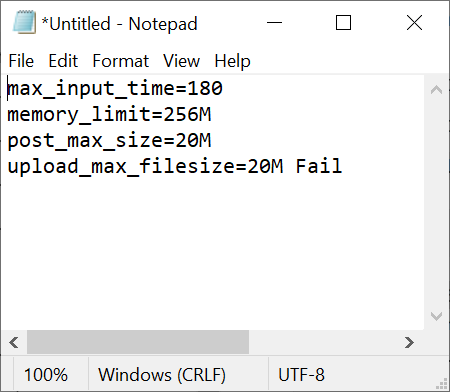
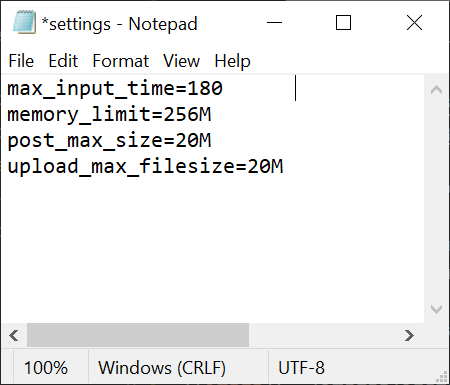
updated espocrm

diff --git a/installation/espocrm.md b/installation/espocrm.md
@@ -26,9 +26,9 @@ An **Azure App Service Plan** is required for this installation. The App Service
 
 ![image](../images/installation/espocrm-install.png)
 
-- In the installation page, select the Azure Resource Group and the Azure App Service Plan to install the web app. The App Service Plan must be higher than the Free and Shared tiers.
+- In the installation page, select the Azure Resource Group and the Azure App Service Plan to install the web app. The App Service Plan must be higher than the Free and Shared tiers
 
-- Click the 'Submit' button when you are done.
+- Click the 'Submit' button when you are done
 
 ![image](../images/installation/webapp-install.png)
 
@@ -40,15 +40,55 @@ An **Azure App Service Plan** is required for this installation. The App Service
 
 Once the web application is successfully installed in the App Service Plan, you will continue to install EspoCRM.
 
-- Click the 'My Web Apps' menu link, and scroll down to the WordPress app
+- Click the 'My Web Apps' menu link, and scroll down to the EspoCRM app
 
 - In the 'Manage' dropdown menu, select 'Launch Web App'
 
 ![image](../images/installation/espocrm-manage.png)
 
-- You should see the EspoCRM install page. If you do not see this page or you are presented with another page or a 'not found' message, wait for a few more minutes for the site to be installed in the App Service Plan.
+- You should see the EspoCRM install page. If you do not see this page, wait for a few more minutes for the site to be installed in the App Service Plan.
 
-- Select the language and click the 'Start' button.
+![image](../images/installation/espocrm-install-lang.png)
+
+## Custom PHP.INI Settings 
+
+EspoCRM requires custom PHP.INI settings. Follow these instructions to create the settings :
+
+- In the RCL Web Apps portal, click on the 'Manage' button for the EspoCRM web app
+
+- Click on the 'Custom PHP.INI settings' link
+
+![image](../images/installation/espocrm-manage.png)
+
+- In the 'Custom PHP.INI Settings' page, click on the 'Create/Update custom PHP.INI settings' link
+
+![image](../images/installation/php-ini-create.png)
+
+- Create a text file with the following settings :
+
+![image](../images/installation/espocrm-php-ini-file.png)
+
+- Save the file with the file name : 'settings.ini'
+
+- In the RCL Web App 'Create/Update Custom PHI.INI' page, select 'Non-System' Type and upload the 'settings.ini' file you created earlier. Click the Submit button when you are done
+
+![image](../images/installation/php-ini-upload.png)
+
+- In the RCL Web App portal, ensure that the PHI.INI settings is correctly set for EspoCRM
+
+- You will need to restart the app for the settings to take effect
+
+![image](../images/installation/espocrm-php-ini-settings.png)
+
+- In the RCL Web Apps portal, click the 'Restart' button for the EspoCRM web app. Wait for few minutes for the app to restart before you continue with the installation.
+
+![image](../images/installation/espocrm-manage.png)
+
+## Setting Up The Database
+
+- Open the EspoCRM app and continue the installation
+
+- Select the language and click the 'Start' button
 
 ![image](../images/installation/espocrm-install-lang.png)
 
@@ -58,7 +98,7 @@ Once the web application is successfully installed in the App Service Plan, you 
 
 - You will need to get the database connection settings from the in-app database in the App Service Plan.
 
-- In the RCL Web Apps portal, in the web app click the 'Manage' drop down, and click on 'View web app Database Connection and Properties'
+- In the RCL Web Apps portal, in the EspoCRM web app click the 'Manage' drop down, and click on 'View web app Database Connection and Properties'
 
 ![image](../images/installation/webapp-db-conn.png)
 
@@ -74,35 +114,40 @@ Once the web application is successfully installed in the App Service Plan, you 
 
 ![image](../images/installation/espocrm-install-db-conn.png)
 
-- In the 'System Requirements' section, you will notice that we need to change the following PHP.INI settings
+- Ensure the system requirements (including the custom setting we created earlier) passes the validation tests. Click the 'Next' button to proceed
 
-![image](../images/installation/espocrm-settings-fail.png)
+![image](../images/installation/espocrm-system-requirements.png)
 
-- In the RCL Web Apps portal, in the web app click the 'Manage' drop down, and click on 'View web app Database Connection and Properties'
+- Set the Username and Password to login and click the 'Next' button
 
-![image](../images/installation/webapp-php-ini.png)
+![image](../images/installation/espocrm-set-password.png)
 
-- In the Custom PHP.INI page, clcik the 'Create/Update custom PHP.INI' settings link
+- Set the 'System Settings' and complete the installation
 
-![image](../images/installation/php-ini-create.png)
+![image](../images/installation/espocrm-system-settings.png)
 
-- Create a text file with the following settings :
+- Login to the admin portal to start using the app
 
-![image](../images/installation/espocrm-php-ini-file.png)
+![image](../images/installation/espocrm-admin-portal.png)
 
-- Save the file with the file name : 'settings.ini'
+## Cron Job
 
-- In the RCL Web App 'Create/Update Custom PHI.INI' page, select 'Non-System' Type and upload the 'settings.ini' file you created earlier. Click the Submit button when you are done
+You must verify that the EspoCRM cron jobs are running successfully.
 
-![image](../images/installation/php-ini-upload.png)
+- In the RCL Web Apps portal, in the EspoCRM web app click the 'Manage' drop down, and click on 'Setup Cron jobs' link
 
-- In the RCL Web App portal, ensure that the PHI.INI settings is correctly set 
+![image](../images/installation/espocrm-manage.png)
 
-![image](../images/installation/espocrm-php-ini-settings.png)
+- In the 'Cron Jobs' page, click the 'View Cron (web) Jobs Dashboard
 
-- In the EspoCRM installation page. recheck the settings
+![image](../images/installation/espocrm-cron-job.png)
 
-![image](../images/installation/espocrm-php-ini-recheck.png)
+- Ensure the cron jobs are successfully running every 5 minutes
+
+![image](../images/installation/espocrm-cron-job-dashboard.png)
+
+
+
 
 
 
